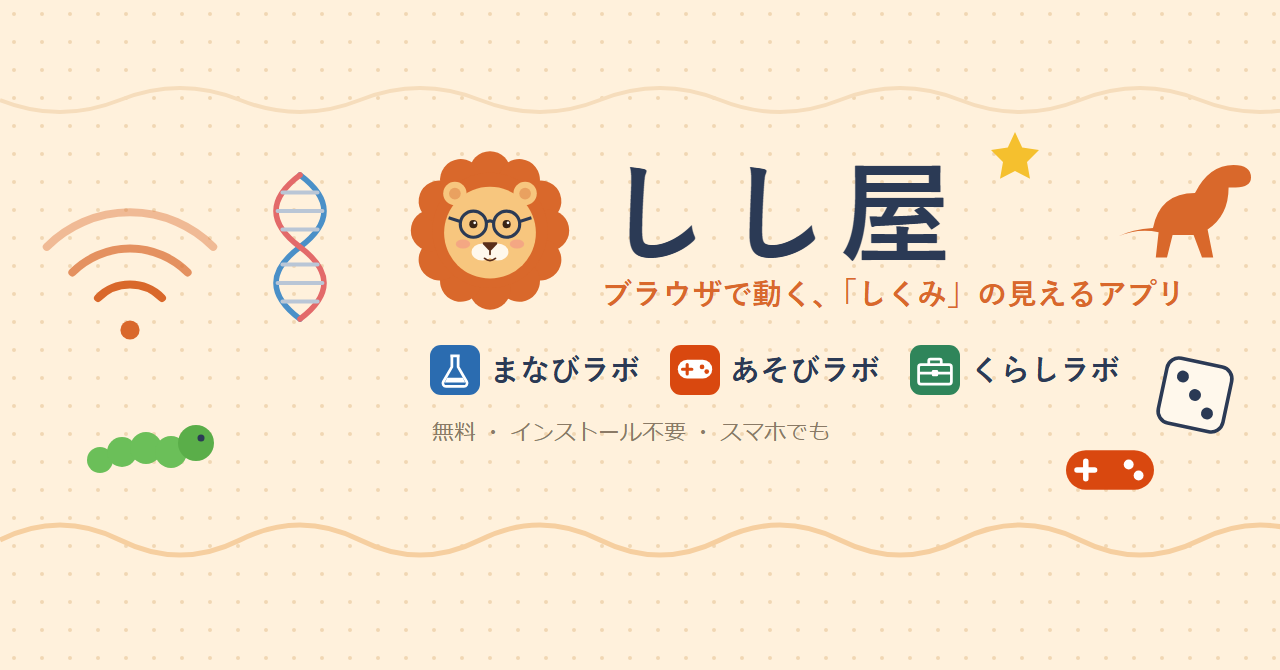
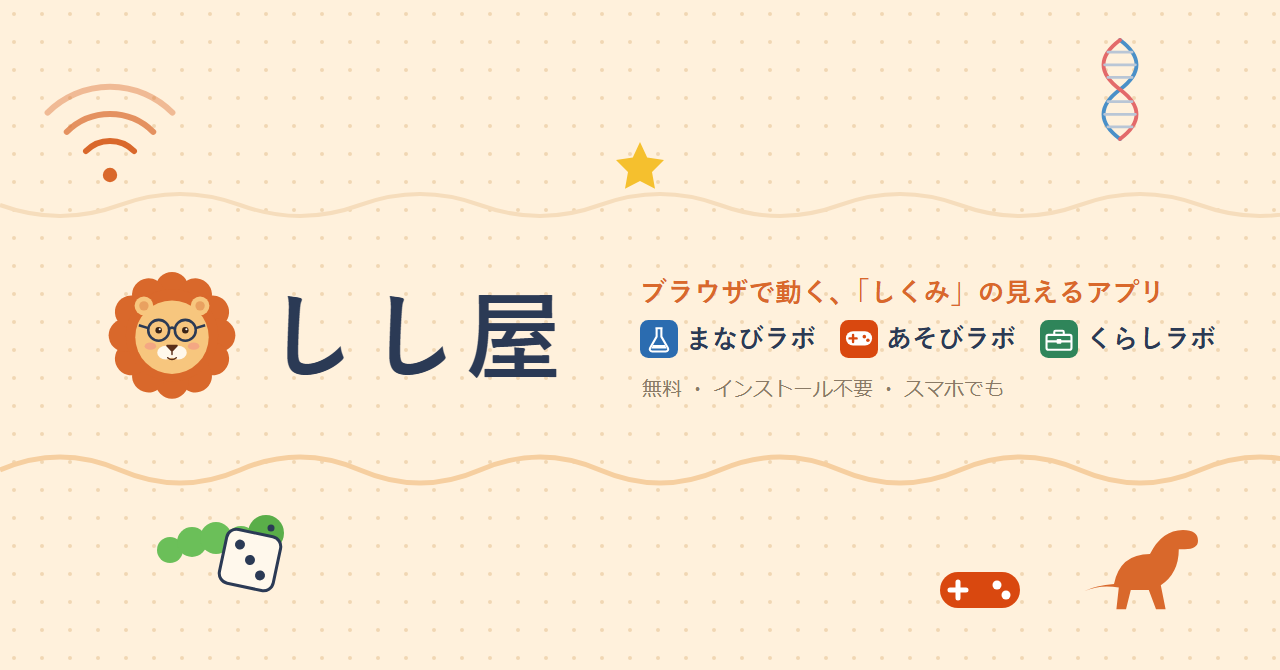
brand: note のヘッダーを1段に（note はまん中の細い帯しか見せない。パソコン・スマホで題が切れていた）

diff --git a/_dev/sns-icon/brand-2026-10/note-check.html b/_dev/sns-icon/brand-2026-10/note-check.html
@@ -1,0 +1,4 @@
+<!doctype html><meta charset="utf-8"><style>body{margin:0;background:#1b2333;color:#ddd;font:14px sans-serif}div{margin:8px 0 16px;background:url(header-note.png?2) center/cover;height:170px}</style>
+<p>幅 1000（画面 2000 相当）</p><div style="width:1000px"></div>
+<p>幅 1280（画面 2560 相当）</p><div style="width:1280px"></div>
+<p>スマホ（幅 375・高さ 196 くらい）</p><div style="width:375px;height:196px"></div>
